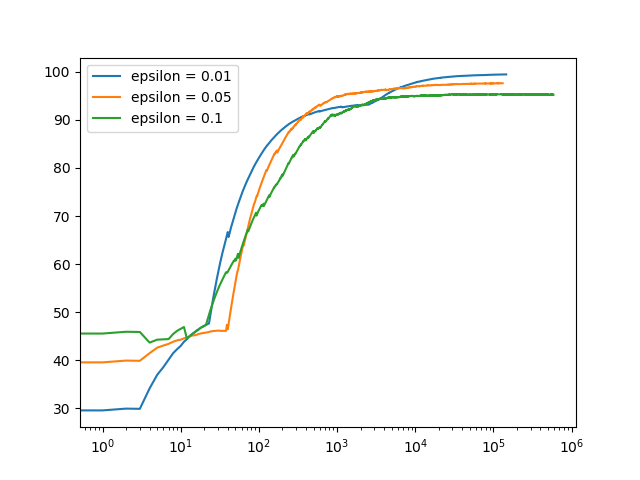
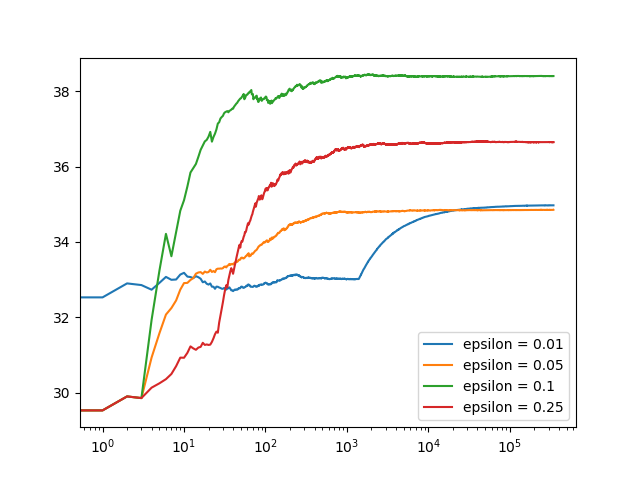
added made number of iterations the same.

diff --git a/epsilon_comparisons.py b/epsilon_comparisons.py
@@ -4,12 +4,10 @@ import numpy as np
 import matplotlib.pyplot as plt
 
 # The following function uses
-def test_greedy(epsilon):
+def test_greedy(epsilon, num_iterations):
     # Problem setup
-    max_num_bandits = 101
-    num_bandits = np.random.randint(1,max_num_bandits) # set number of bandits
-    num_iterations = np.random.randint(10000, 1000000) # set number of iterations
-    m_vals = [np.random.randint(1, max_num_bandits) for _ in range(num_bandits)] # create True Mean values
+    num_bandits = 5 # set number of bandits
+    m_vals = [np.random.randint(30,41) for _ in range(num_bandits)] # create True Mean values
     bandits = [Bandit(m=i) for i in m_vals] # create bandits
     data = np.empty(num_iterations) # create an empty array for output data
 
@@ -32,15 +30,12 @@ def test_greedy(epsilon):
 
 if __name__ == '__main__':
     np.random.seed(seed_val) # seed value set
-
-    epsilons = [0.01, 0.05, 0.1]
+    num_iterations = np.random.randint(100000, 1000000) # set number of iterations
+    epsilons = [0.01, 0.05, 0.1, 0.25]
 
     for epsilon in epsilons:
-        curr_results = test_greedy(epsilon=epsilon)
-        plt.plot(curr_results, label='epsilon = {0}'.format(epsilon))
-    
-    # greedy_epsilon_10_percent = test_greedy(epsilon=0.1)
-    # plt.plot(greedy_epsilon_10_percent, label='epsilon = %s' % (epsilon))    
+        curr_results = test_greedy(epsilon=epsilon, num_iterations=num_iterations)
+        plt.plot(curr_results, label='epsilon = {0}'.format(epsilon))    
     
     plt.legend()
     plt.xscale('log')
